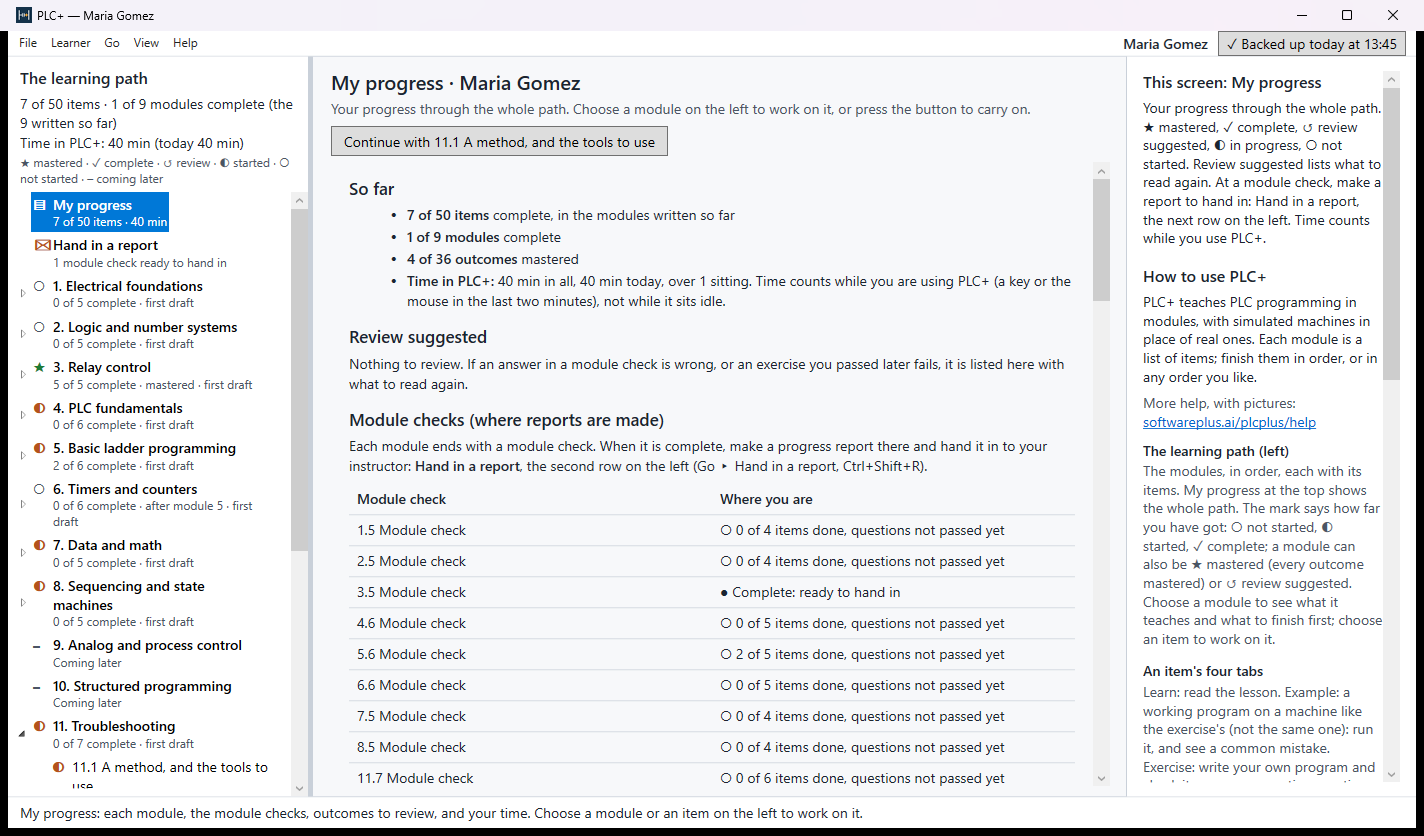
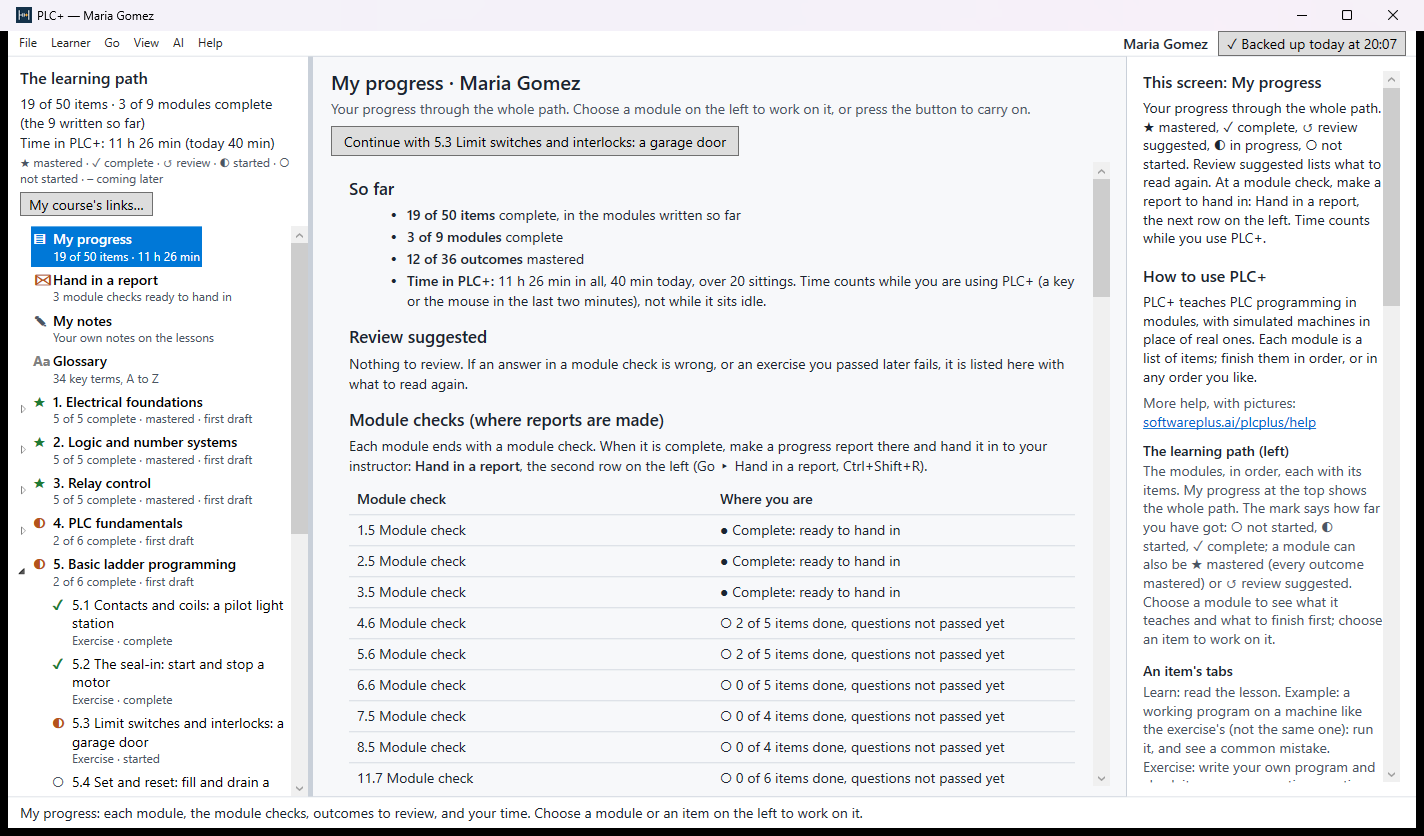
Plan 12.11: the 1.0 release prepared from main with the textbook features (Ron): Store package with the real identity, nine screenshots retaken, listing and testers' notes updated for the new features and the optional AI
Claude-Session: https://claude.ai/code/session_01XWuXexs8k3Lri7YjD3i88s

diff --git a/docs/DEVELOPMENT-PLAN.md b/docs/DEVELOPMENT-PLAN.md
@@ -289,6 +289,7 @@ un-wack.ps1`, needs administrator) — hand-test 11.4–11.5 |
 | 12.8 | **The instructors' testing guide** at `softwareplus.ai/plcplus/testing/`: what PLC+ is for and what to review; install from the Store link; a guided tour (a learner, a module, an example, an exercise, a check, a report, checking a report); what to try in each module; how to send feedback (the review site's comments, or e-mail); what is known to be missing. Help ▸ **Testing guide** in the program links to it. Pictures taken from the program with PrintWindow | ⚠ Built and deployed 2026-11-05 (noindex, not linked from the home page): what PLC+ is and what to judge; install (an element `store-link` waits for the Store link, which the invitation e-mail carries until then); a nine-step tour with seven pictures from the 1.0 package; one line per module; feedback on the review site or by e-mail; known limits. UX: walkthrough + heuristics (2026-11-05), 0 blockers, 3 major fixed (the install steps for a first-time Store user, the module check's place and its Check my answers, **a Store build is refused while `StorePage` is empty** so the Store copy's update check cannot ship broken), 8 minor fixed (F1, the recovery-code page, the Continue button, the first report's details and the result line, Choose… / Check and how to change a PDF, the lab paragraph, privacy wording, About cannot fail on a mistyped Store link), and an uninstall check added to hand-test 11.8. ⚠ Ron: read it as an instructor would (hand-test 11.2) |
 | 12.9 | The review site and the instructors' review guide (`docs/INSTRUCTOR-REVIEW.md`) changed to the Store install (the zip of the preview goes) | ⚠ Done 2026-11-05: `docs/INSTRUCTOR-REVIEW.md` says 1.0 is on the Store for the reviewers (install from the invitation's link, the testing guide), what it now has (learners, My progress, reports) and what it does not; `tools/make-review-site.py` no longer offers the zip (and removes it from the site); the review site's four pictures retaken from 1.0. Deploy with 12.7 |
 | 12.10 | Submitted by Ron; once live, the link goes in the testing guide and the guide is sent to the instructors | ⚠ Ron |
+| 12.11 | **The 1.0 release prepared again from `main`, with the textbook features** (Ron, 2026-11-17: "Prepare a release for PLC+") | ⚠ **Prepared 2026-11-17:** Release build, 352 + 15 tests and the content validator pass; `artifacts\store\PLCPlus_1.0.0.0_x64_bundle.msixupload` (69.2 MB) built with the real identity `DeanEaglin.PLC` (family name `DeanEaglin.PLC_xs303fgqvwdg8` checked; the package holds the 39 Learn programs, the modules and the glossary), and its program opens and runs (6.1's examples, the 5.2 machine, Close). Nine screenshots retaken from the package with a new sample learner (Maria Gomez, modules 1–3 mastered) in `C:\Users\Public\PLCPlus` (removed afterwards): the seven tabs, an example to try (8) and a Learn page with 🔊 Read (9). `STORE-SUBMISSION.md`: the listing (seven tabs, examples to try, Read aloud, notes and Glossary, the optional AI; 19 features), the testers' notes (the network now names Ask the AI and Google voices), the checklist. On softwareplus.ai (committed, **not deployed**): the privacy policy covers Ask the AI and Google voices (effective 2026-11-17; it said "sends nothing", which the optional AI made untrue), and the program page, help and testing guide say seven tabs and the new features. ⚠ Ron: (1) the site deploy: the PLC+ examples session's `deploy.ps1 -Only plcplus` failed on the server's install step (`syntax error near unexpected token '('`, log `20261117-164942-23896.log`), so under the portfolio rule the next deploy waits for you; the privacy page must be live before submitting; (2) WACK (`.\packaging\run-wack.ps1`, administrator); (3) hand-tests 13–17; (4) submit (§9). The testing guide's seven pictures still show four tabs (to retake) |
 
 ## Phase 13 — after the instructors' feedback (spec Phase 2, the rest)
 
@@ -309,7 +310,7 @@ LMS and reviewed end to end.
 | 13.9 | **Review, In this item, the Glossary and the Reader** (Ron, 2026-11-15: "Build Review, the In this item band, Glossary, and the Reader"; Learning Core plan 3.11–3.13, 3.15; `..\LearningCore\docs\PLUSBOOK-FEATURES.md`). **Review** (Ctrl+5): key takeaways, key terms, flashcards, a self-test that counts for nothing. **In this item** at the top of Learn: objectives, time, key terms. **Key terms** marked in the item's pages (dotted underline, the definition on pointing, a click to the Glossary). **Glossary** in the path (Ctrl+Shift+G): 34 terms A to Z, search, "Used in" each item. **🔊 Read aloud** (Ctrl+Shift+A; right-click ▸ Read aloud from here): Learn, Laboratory, Review and Reference read paragraph by paragraph, the one being read in amber; pause, go on, stop; View ▸ Reader voice and speed…: Windows voices (free, offline) or Google voices through AI Manager (the cost asked first, each part paid once a session). Tabs now Learn, Example, Exercise, Laboratory, Review, Reference, My notes (Ctrl+1–7) | ⚠ **Built 2026-11-15** (Learning Core 1.5.0; `ReviewParts.cs`, `Reader.cs`, `MarkdownView` term marks and reading mark). Content as **examples**: a first glossary of 34 terms for modules 1–5 (`content/plcplus-foundations/glossary.md`), takeaways and key terms for module 5, self-tests for 5.1 and 5.2; the author writes the rest. Seen in the running window: the band, the marks, Review with flashcards and the self-test, the Glossary, the Reader reading 5.2 with a Windows voice. **The voice in sight** (Ron, 2026-11-15: "Where it tells you the voice being used … put a link to the voice selection"): under the reading buttons, "Reader voice: … · Change voice…"; the voice window has Hear it and **Choose a Google voice…**, AI Manager's own voice chooser (every Google voice by language and kind, with its price and Hear it), or Set up Google voices… when there is no key. UX: walkthrough + heuristics 2026-11-15, 2 major and 11 minor findings fixed: reading stops on every page change and says why, and stops with Esc; a crash path in the voice window and with no Windows voice closed; Pause holds between paragraphs; reading again on the same page keeps the amber mark; every end of reading is said on the status line; ◂ Back from the Glossary to the item and tab; every "Used in" item shown, with the wording to match; Ctrl+Shift+G puts the keyboard in Find a term; the self-test keeps answers not yet checked and says nothing about passing; the voice window keeps a saved Google voice when Google cannot be reached and says why none are listed; flashcard buttons say "card". Ron: hand-test 14 |
 | 13.10 | **Ron's answers on 13.9** (2026-11-15): (1) "Start with free Windows voice, but give them the ability to change (may not be free)": the Windows voice is the default, Change voice… is under the reading buttons, and Google voices say they cost; (2) "In this item": "Keep it on Learn"; (3) the Reader reads tables: "Yes". **Tables read aloud:** each table is read as its columns ("A table with 4 rows, and the columns: Symbol, Name, …"), then one row at a time ("Symbol: normally open contact symbol. Name: Normally open. …"), the row being read in amber; a ladder picture is read rung by rung and a truth table row by row from their descriptions; ladder symbols (-\| \|-, -( )-, -(S)- …) are said as words; right-click a table row ▸ Read aloud from here starts there. **A table of values** (Ron, 2026-11-15: "Reader should read table title and not values if it is a table of values"): when most cells are values (TRUE/FALSE, numbers, binary, hex, times, marks), only its title is read (the short line just before it, or the heading above), "See the page for the values"; a truth table says only "A truth table: (Start OR Motor) AND Stop" | ⚠ **Built 2026-11-15** (`MarkdownView`: reading steps in page order). Seen in the running window: 5.1's Reference read with the table's rows marked one by one. Ron: hand-test 14, step 5 |
 | 13.11 | **Pop out for every tab** (Ron, 2026-11-15: "Size of the screen for many of the tabs is important (some need more room). The easiest solution would be to have a 'Pop Out' that can be used for all the tabs, that pops out the screen in the tab to a full size modal window"). **⤢ Pop out** above the tabs (beside Read aloud), View ▸ Pop out this tab, Ctrl+Shift+O: the tab showing opens in a window that fills the screen, modal (the main window waits; auto-lock and time on task carry on). Learn, Laboratory, Review, Reference, My notes and an Exercise of questions move whole, with a bar (item, tab name, Read aloud / Stop on a page the Reader reads, Put it back) and the status line; the Example and Exercise machines use their own pop-out, now full size too. Put it back, Esc (not while typing in a box) or Ctrl+Shift+O returns it as it is. A key term, a ✎ or Show it in the lesson puts it back first; dialogs open over it; status words that point at the main window say to put it back first. **Its size is remembered** (Ron, 2026-11-15: "If it could remember the windows size of the last pop out, it should open to that size for all the following pop out windows"): every pop-out, tab or machine, opens at the size and place the last one was left at, maximized or not, kept per learner with their progress; full screen the first time (Ron, 2026-11-17: "Full screen is good, keep it") | ⚠ **Built 2026-11-15** (`MainWindow.PopOutCurrentTab`). Seen in the running window: Learn (reading aloud, amber mark), Review, My notes, Exercise machine. UX: walkthrough + heuristics, 6 findings, all fixed (status words, backup dialog over the pop-out, Esc in a box, machine pop-out shows the main status, Ctrl+Shift+O puts it back, tooltip). Ron: hand-test 15 |
-| 13.12 | **The textbook features on `main`** (Ron, 2026-11-17: "merge my-notes into main" and "apply everything we just did to the PLC+ application"): plan 13.2–13.11 (My notes, Ask the AI, Laboratory, course links, Review, In this item, the Glossary, the Reader, Pop out) merged from `my-notes` (fast-forward, `cc4f0c3`); the hand-test build is `manual-test\PLCPlus.exe` again. **The 1.0 Store package (12.10) not yet submitted is now built from this `main`, with these features**; the 1.0 as it was before them is commit `6d39dd6` | ⚠ Ron: hand-tests 13–15 on `manual-test\PLCPlus.exe`; say whether 1.0 ships with these features or from `6d39dd6` |
+| 13.12 | **The textbook features on `main`** (Ron, 2026-11-17: "merge my-notes into main" and "apply everything we just did to the PLC+ application"): plan 13.2–13.11 (My notes, Ask the AI, Laboratory, course links, Review, In this item, the Glossary, the Reader, Pop out) merged from `my-notes` (fast-forward, `cc4f0c3`); the hand-test build is `manual-test\PLCPlus.exe` again. **The 1.0 Store package (12.10) not yet submitted is now built from this `main`, with these features**; the 1.0 as it was before them is commit `6d39dd6` | ⚠ Ron: hand-tests 13–17 on `manual-test\PLCPlus.exe`. **Ron, 2026-11-17: "Prepare a release for PLC+"**: 1.0 ships from `main` with these features (12.11) |
 | 13.13 | **A 🔊 Read link beside the Learn title** (Ron, 2026-11-17: "In PLC+ (and for all PlusBooks) in Learn add a Read Link that can read the text out loud. Put it just to the right of the title"): at the end of the Learn page's first heading; reads the page as 🔊 Read aloud does, and says ⏸ Pause and ▶ Go on while reading; the Reader does not read its words. For the other PlusBooks: AppliedDatabase+ copied it 2026-11-17 (its commit 6c69e60, plan 4.6); Statistics+ has no Reader yet (Learning Core plan 3.15) | ⚠ **Built 2026-11-17** (`MarkdownView.ShowReadLink`). Ron: hand-test 16 |
 | 13.15 | **The Try it examples move to the Example tab, each with a figure** (Ron, 2026-11-17: "Voltage, current, and resistance (in Example): A small circuit with a voltage (battery) and resistor, and a measurable current. Change values on battery (voltage) or Resistor (Ohms) and show results on current. Show with a small circuit. Also show Power … The same for Series and Parallel circuits - use example that is in the Learn (put into Example), show with diagram of actual circuits. This should be done for all the items, the Try it - goes into the Example section and always contains some type of figure … if there are multiple larger examples, we can add tabs for Example 1, Example 2"). An item's examples are sections at the end of its file, `[[example: Title]]` (`Plc.Grading.ExamplePages`); on Learn, `[[see-example: N]]` is a button that opens Example N. With more than one, the Example tab has tabs Example 1, Example 2 … (the written ones first, the machine last) and is called Examples (n). **try-circuit draws the circuit** (`TryCircuits.cs`): battery, resistors, a switch, the current's arrow, wires green and thick when current flows, resistors warming with their power; Open breaks the circuit (series) or one branch (parallel); it starts at given values and names (`CircuitSpec`: `parallel 24V Coil=480 Light1=960 …`). **try-logic draws its rung** (`TryLogicRung.cs`): AND in series, OR side by side, NOT as NC, live. Module 1's examples rewritten from the Learn pages' worked examples (the 480 Ω coil; 200 Ω and 400 Ω in series; three pilot lights and a coil in parallel, with a burned-out light); the other 43 moved as they were, with titles. The validator checks each example has a figure and every see-example names one; the review site shows them under The Example tab | ⚠ **Built 2026-11-17**: 48 written examples on 39 items; with the machines, 34 items have two or three examples (tabs Example 1, Example 2 …), 5 have one; 14 new tests (`ExamplePagesTests`), 352 engine tests pass; the figures checked as pictures (the Example 1, Example 2 tabs not yet seen in the running window: UI Automation cannot type a PIN). UX: walkthrough + heuristics, 1 critical, 1 major, 4 minor: fixed: an item with a machine opens its Example tab on the machine, as its Learn text says; a rung contact says its input above and closed/open below (never green with FALSE); the result says TRUE/FALSE; Learn's "## Try it" (which meant the Exercise tab) is now "## Practise"; resistors go to 2 kΩ. Not done: a "Back to the lesson" link on an example (the Learn tab is beside it). Ron: hand-test 17 |
 | 13.14 | **Interactive examples in Learn** (Ron, 2026-11-17: "Go through each Topic … and wherever possible add interactive examples of the concepts in the Learn section"): four new widgets (`TryWidgets.cs`; `docs/CONTENT-FORMAT.md`): **try-ladder** (a small program running live: hold-down buttons, number boxes, lamps, timers and counters inside the PLC, power flow, Pause, Step one scan, Reset), **try-logic**, **try-number** (8/16 bits, BCD), **try-circuit** (Ohm's law, series, parallel, AC/DC); the validator checks them and D21 covers live ladders. Then every Learn item of modules 1–8 and 11 gone through, examples added where they help | ⚠ **Built 2026-11-17**: 48 examples on 39 Learn pages (1.4 safety and 4.1 hardware have nothing to try), 39 small programs in `programs/learn/`; every live ladder runs through all its button combinations without a fault in `LearnExampleTests` (with four behaviour checks); seen in the running window (6.1, 5.4, 2.1, 1.1). UX: walkthrough + heuristics, 8 findings fixed (stepping with a button needs keep pressed, NC in words, typed values explained, out-of-range numbers said, the Read link underlined, one tooltip, the power scale, the marked row in words). **D21 close calls for Ron:** 3.3's relay seal-in (different tags, beside one without it), 6.3's TON beside a TONR with a clear (the pattern the page already spells out). Ron: hand-test 16; the examples are first drafts for the instructors' review |

diff --git a/docs/release/STORE-SUBMISSION.md b/docs/release/STORE-SUBMISSION.md
@@ -16,7 +16,7 @@ Publisher account: publishing as **Dean Eaglin** (the same account as SMADA, Sta
 | | Item | State |
 |---|---|---|
 | ☑ | Store name **PLC+** reserved in Partner Center | Ron, 2026-11-04 |
-| ☐ | **NEEDS RON:** the package identity name and the Store ID, copied out of Partner Center | §3 |
+| ☑ | The package identity name and the Store ID, from Partner Center | §2 (2026-11-05) |
 | ☑ | `packaging/AppxManifest.xml` — identity, tiles, one capability (`runFullTrust`) | in the repo |
 | ☑ | `packaging/pack.ps1`, `make-msixupload.ps1`, `run-wack.ps1` — from Author+ | in the repo |
 | ☑ | `packaging/make-store-assets.ps1` — every tile, listing image and `PLCPlus.ico`, drawn from one mark | 52 tiles, none over WACK's size cap |
@@ -24,12 +24,17 @@ Publisher account: publishing as **Dean Eaglin** (the same account as SMADA, Sta
 | ☑ | `src/Learning.Shell/app.manifest` — PerMonitorV2 (WACK needs it) | in the repo |
 | ☑ | Version 1.0.0 (`Directory.Build.props`, `PlcPlusVersion`) | |
 | ☑ | A `.msixupload` builds end to end with the development identity (68.8 MB) | 2026-11-05 |
-| ☐ | Privacy page live at https://softwareplus.ai/plcplus/privacy/ | §4 |
-| ☐ | Testing guide live at https://softwareplus.ai/plcplus/testing/ | §4 |
-| ☐ | Submission package built with the real identity | §6, after §3 |
+| ☑ | **1.0 ships from `main` with the textbook features** (plan 13.2–13.16: the seven tabs, My notes, Ask the AI, the Reader and the Read link, the examples to try on the Example tab, Pop out for every tab) | 2026-11-17, Ron: "Prepare a release for PLC+" (plan 13.12) |
+| ☑ | Privacy page updated for Ask the AI and Google voices (effective 2026-11-17) | §4; ⚠ deploy waits for Ron (below) |
+| ☑ | Program page, help and testing guide say seven tabs and the new features | §4; ⚠ deploy waits for Ron |
+| ☑ | Submission package built with the real identity: `artifacts\store\PLCPlus_1.0.0.0_x64_bundle.msixupload`, 69.2 MB, family name checked | §6, 2026-11-17 |
 | ☐ | WACK run and passing (Ron: it needs an administrator window) | §7 |
-| ☑ | Seven screenshots, 1424 × 836, in `store/screenshots/` | §8 |
+| ☑ | Nine screenshots, 1424 × 836, in `store/screenshots/`, retaken from the 1.0 package | §8, 2026-11-17 |
 | ☐ | Partner Center submission | §9 |
+
+**The deploy of the site (2026-11-17):** the PLC+ examples session's `deploy.ps1 -Only plcplus` failed on the server's install
+step (log `%LOCALAPPDATA%\SoftwarePlus\deploy\runs\20261117-164942-23896.log`), so under the portfolio rule the next deploy waits
+for Ron. The privacy page must be live before the submission: the program links to it, and it now covers the AI.
 
 ---
 
@@ -102,7 +107,7 @@ for a few minutes; leave the computer alone while it does. Expected, as for ever
 ## 8. Screenshots
 
 `store/screenshots/`, 1424 × 836 (Partner Center wants at least 1366 × 768), taken from the packaged program with PrintWindow
-and the sample learner "Maria Gomez":
+and the sample learner "Maria Gomez" (retaken 2026-11-17 for the seven tabs; upload them in this order):
 
 | # | File | Shows |
 |---|---|---|
@@ -113,6 +118,8 @@ and the sample learner "Maria Gomez":
 | 5 | `05-module-3.png` | a module's first page: outcomes mastered, topics, items |
 | 6 | `06-hand-in.png` | Hand in a report: the signed PDF progress report |
 | 7 | `07-start.png` | Who is learning? — learners on a shared computer |
+| 8 | `08-try-it-6-1.png` | An example to try: an on-delay timer running live, with power flow and Inside the PLC |
+| 9 | `09-learn-5-2.png` | A Learn page: 🔊 Read beside the title, key terms, the button to try it on the Example tab |
 
 ## 9. Partner Center, field by field
 
@@ -189,12 +196,16 @@ Paste the notes in §10, then **Submit to the Store**.
 > students use one lab computer, each with a PIN-locked file of their own). It needs no administrator rights, installs no
 > drivers or services, and touches no other application's data.
 >
-> **No network.** PLC+ works offline and sends nothing. The only connection is to the Microsoft Store itself, when the user
-> chooses Help › Check for a new version. Links to help pages open in the user's web browser.
+> **Network.** PLC+ works offline and sends nothing about its users. It connects only when the user asks: Help › Check for a
+> new version (the Microsoft Store), the optional Ask the AI on an item's My notes tab and the optional Google voices for Read
+> aloud. Those two work only after the user enters their own key from an AI company or Google in AI › AI settings, and send the
+> user's question and the lesson's text (the book's words), never the learner's name, progress or notes. Without a key they say
+> what they need and everything else works. Links to help pages open in the user's web browser.
 >
 > **How to try it.** On the first screen press New learner, type any name and a 4-digit PIN, and keep or skip the recovery
-> code. The learning path opens on the left. Choose Module 5 › 5.2, then the Example tab: a working program runs a simulated
-> motor; press Start and Stop on the machine. The Exercise tab is the same machine with an empty program to build. Nothing needs
+> code. The learning path opens on the left. Choose Module 5 › 5.2, then the Examples tab and "the machine": a working program
+> runs a simulated motor; press Start and Stop on the machine. On 6.1's Examples tab, Example 1 is a small timer program running
+> live: hold Go down. The Exercise tab is the same machine with an empty program to build. Nothing needs
 > a sign-in, an account or a purchase.
 >
 > **Audience.** This 1.0 release is hidden (direct link) for the PLC instructors reviewing the course before students use it.
@@ -220,7 +231,7 @@ PLC+
 **Short description** [1000]
 
 ```
-Learn PLC programming at home, with simulated machines in place of real hardware. PLC+ takes you from electrical and logic basics to ladder logic, timers, counters, sequencing and troubleshooting: read a lesson, run a working example on a machine, then write your own program and check it. Progress stays on your computer, and a signed PDF report shows your instructor what you have done.
+Learn PLC programming at home, with simulated machines in place of real hardware. PLC+ takes you from electrical and logic basics to ladder logic, timers, counters, sequencing and troubleshooting: read a lesson (or hear it read), try the idea in a small program running live, run a working example on a machine, then write your own program and check it. Progress stays on your computer, and a signed PDF report shows your instructor what you have done.
 ```
 
 **Description** [10000]
@@ -229,10 +240,13 @@ Learn PLC programming at home, with simulated machines in place of real hardware
 PLC+ is the self-paced half of a PLC course: everything you can learn before you stand in front of a real controller. The lab is the other half.
 
 LEARN IN MODULES
-Each module is a short list of items, each with four tabs: Learn (the lesson), Example (a working program on a simulated machine, and a common mistake to see go wrong), Exercise (write your own program, or answer practice questions) and Reference (the symbols and rules on one page). A module ends with a check. This release has nine modules written: electrical foundations, logic and number systems, relay control, PLC fundamentals, basic ladder programming, timers and counters, data and math, sequencing and state machines, and troubleshooting.
+Each module is a short list of items, each with seven tabs: Learn (the lesson, which PLC+ can read aloud), Example (examples to try and a working program on a simulated machine, with a common mistake to see go wrong), Exercise (write your own program, or answer practice questions), Laboratory (the lab exercise for the real PLC), Review (takeaways, key terms, flashcards and a self-test), Reference (the symbols and rules on one page) and My notes. A module ends with a check. This release has nine modules written: electrical foundations, logic and number systems, relay control, PLC fundamentals, basic ladder programming, timers and counters, data and math, sequencing and state machines, and troubleshooting.
+
+TRY EACH IDEA AS YOU GO
+Small programs run live on the Example tab: hold a button and watch power flow along the rungs, a timer count up and a counter reach its preset. Switch the inputs of a truth table, click the bits of a byte to see it in binary, hex and BCD, and move the sliders of a circuit to see Ohm's law at work.
 
 MACHINES IN PLACE OF HARDWARE
-Pilot lights, a motor starter, a traffic light, a garage door, a tank, a sorting conveyor, pumps, cylinders, a stamping station and more. Press their buttons, block their sensors and watch the ladder live beside them: every contact shows TRUE or FALSE, and power flows in thick green. Pop out gives a machine and its program a window of their own.
+Pilot lights, a motor starter, a traffic light, a garage door, a tank, a sorting conveyor, pumps, cylinders, a stamping station and more. Press their buttons, block their sensors and watch the ladder live beside them: every contact shows TRUE or FALSE, and power flows in thick green. Pop out gives any tab, or a machine and its program, a window of their own.
 
 WRITE LADDER LOGIC
 A ladder editor made for beginners: contacts, coils, set and reset, edges, timers (TON, TOF, TONR), counters, compares, math and moves. Every change runs straight away. Check my program runs the machine through its tests and says, in plain words, which one failed and what happened; Replay shows the failure step by step. Names follow IEC 61131-3, with the Allen-Bradley name beside each one.
@@ -243,8 +257,11 @@ Find the fault on a machine with a broken sensor, a failed output or swapped wir
 PROGRESS AND REPORTS
 Many learners can share one computer: each has a progress file locked with a PIN. My progress shows the path, the outcomes mastered, what to review and the time spent. At each module check, PLC+ makes a signed PDF report to hand in; an instructor checks it in PLC+ (File › Check a report) to see it has not been changed.
 
+NOTES, A GLOSSARY AND AN OPTIONAL AI
+Keep your own notes on any paragraph; look up a key term in the Glossary. Ask the AI (optional, with a key of your own or your class's) answers a question about an item from its lesson.
+
 OFFLINE AND PRIVATE
-PLC+ works without an internet connection, has no accounts and no advertising, and sends nothing anywhere. Progress leaves the computer only as files you save yourself.
+PLC+ works without an internet connection, has no accounts and no advertising, and sends nothing about you anywhere. Progress leaves the computer only as files you save yourself. The optional AI and Google voices send only your question and the book's words, and only once you have set them up with your own key.
 ```
 
 **Product features** [up to 20]
@@ -253,17 +270,22 @@ PLC+ works without an internet connection, has no accounts and no advertising, a
 Nine modules: electrical basics to sequencing and troubleshooting
 Simulated machines in place of real PLC hardware
 Every lesson has a working example on a machine like the exercise's
+Examples to try: small programs running live, truth tables, bits and circuits
+Hear any page read aloud, the part being read marked
+Seven tabs per item: Learn, Example, Exercise, Laboratory, Review, Reference, My notes
+Your own notes on any paragraph, and a Glossary of key terms
 A ladder editor for beginners: every change runs straight away
 Check my program says which test failed, in plain words
 Replay a failed test step by step
 Timers, counters, compares, math, set/reset and edges
 Find-the-fault machines and programs to fix
 IEC 61131-3 names, with the Allen-Bradley name beside each one
-Pop out a machine and its program into a window of their own
+Pop out any tab into a window of its own
 My progress: outcomes mastered, what to review, time on task
 Many learners on one computer, each with a PIN-locked progress file
 Signed PDF progress reports to hand in; instructors can check them
-Works offline; sends nothing
+Optional Ask the AI, with your own key
+Works offline; sends nothing about you
 ```
 
 **Search terms** [up to 7] — few people will search while the listing is hidden, but they carry over to the public release
